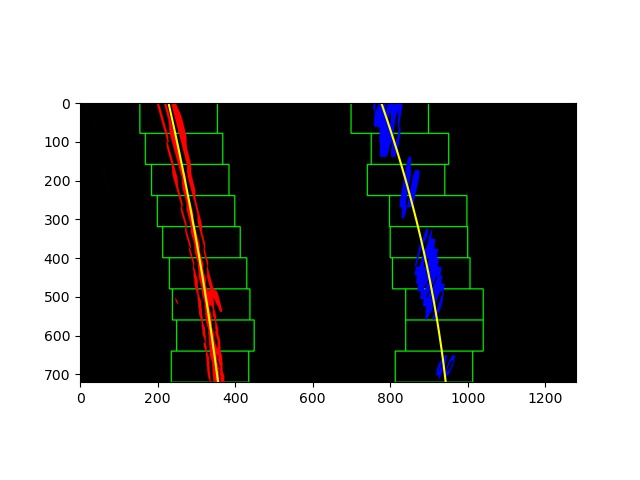
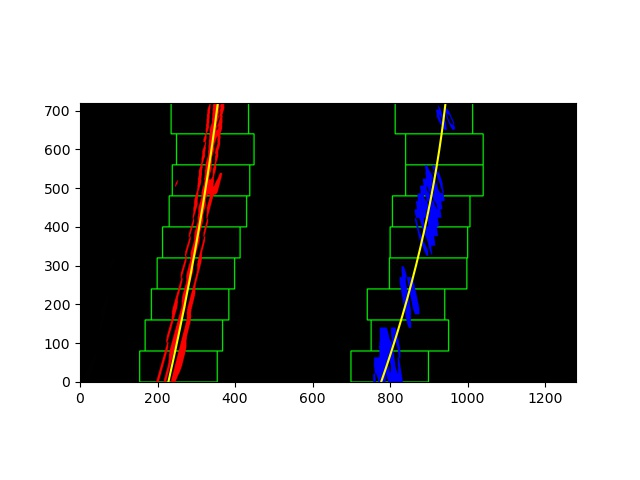
LaneLinesOnVideo

diff --git a/CarND-Advanced-Lane-Lines-master/ImagePipeline.py b/CarND-Advanced-Lane-Lines-master/ImagePipeline.py
@@ -199,9 +199,14 @@ for fname in TestImages:
 
     # Plots the left and right polynomials on the lane lines
     plt.figure(c+3)
-    plt.plot(left_fitx, ploty, color='yellow')
-    plt.plot(right_fitx, ploty, color='yellow')
-
+    poly1 = plt.plot(left_fitx, ploty, color='yellow')
+    poly2 = plt.plot(right_fitx, ploty, color='yellow')
+    plt.xlim(0,1280)
+    plt.ylim(0,720)
+    plt.savefig("output_images/"+fname+"_polyfit.jpg")
+    LaneLines = plt.imread("output_images/"+fname+"_polyfit.jpg")
+    LaneLines = cv2.resize(LaneLines, (1280, 720))
+   
     # Define y-value where we want radius of curvature
     # We'll choose the maximum y-value, corresponding to the bottom of the image
     y_eval = np.max(ploty)
@@ -224,13 +229,13 @@ for fname in TestImages:
     print('Distance from right', vehicle_r)
 
     uM = cv2.getPerspectiveTransform(dst, src)
-    unwarped = cv2.warpPerspective(out_img, uM, (out_img.shape[1],out_img.shape[0]), flags=cv2.INTER_LINEAR)
+    unwarped = cv2.warpPerspective(LaneLines, uM, (LaneLines.shape[1],LaneLines.shape[0]), flags=cv2.INTER_LINEAR)
     plt.figure(c+4)
     mpimg.imsave("output_images/"+fname+"_unwarped.jpg", unwarped, cmap = 'gray')
 
     superimposed = []
     superimposed = cv2.addWeighted(unwarped, 0.8, undist, 1, 0)
-    plt.figure(c+5)
+    plt.figure(c+6)
     mpimg.imsave("output_images/"+fname+"_superimposed.jpg", superimposed)
 
 
